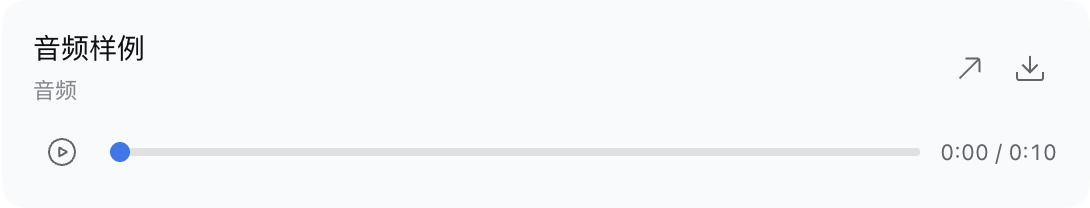
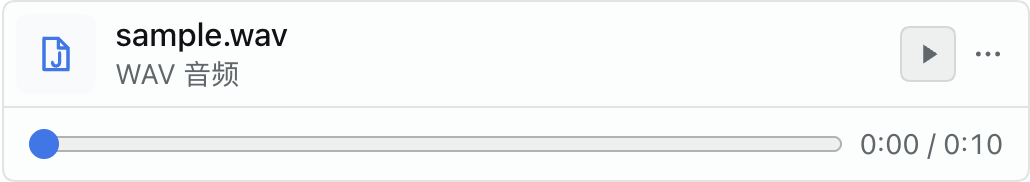
feat: 对齐 Codex 音视频控件的布局与交互
保留表格和 Mermaid 原有实现；音频改为紧凑文件卡片，视频使用自定义进度、音量、倍速和全屏操作条。补充菜单关闭动画并更新 README 截图与控件尺寸记录。

验证：4 项单元测试、19 项真实 DSH 宿主检查及两种插件加载顺序的冷启动通过。

diff --git a/src/styles.css b/src/styles.css
@@ -19,12 +19,10 @@
 .dcr-preview-table th { position: sticky; top: 0; z-index: 1; background: var(--dsw-alias-bg-layer-2); }
 .dcr-preview-table button { cursor: pointer; }
 
-/* Graphs and media use the same quiet surface as DSH's code cards. */
-.dcr-mermaid,
-.dcr-media { border: 0; border-radius: var(--dsw-radius-lg, 12px); background: var(--dsw-alias-markdown-code-block); color: var(--dsw-alias-label-primary); font-family: var(--dsw-font-family); }
+/* Graphs use the same quiet surface as DSH's code cards. */
+.dcr-mermaid { border: 0; border-radius: var(--dsw-radius-lg, 12px); background: var(--dsw-alias-markdown-code-block); color: var(--dsw-alias-label-primary); font-family: var(--dsw-font-family); }
 .dcr-mermaid { margin: 8px 0; overflow: hidden; }
-.dcr-mermaid > header,
-.dcr-media > header { display: flex; align-items: center; justify-content: space-between; gap: 12px; }
+.dcr-mermaid > header { display: flex; align-items: center; justify-content: space-between; gap: 12px; }
 .dcr-mermaid > header { padding: 8px 12px 4px 18px; color: var(--dsw-alias-label-tertiary); font: 11px/18px var(--dsw-font-family); }
 .dcr-render-work { position: absolute; left: -100000px; top: 0; visibility: hidden; pointer-events: none; }
 .dcr-diagram { display: flex; align-items: center; justify-content: center; padding: 16px 20px 20px; overflow: auto; min-height: 100px; }
@@ -38,18 +36,6 @@
 .dcr-zoom { min-width: 40px; text-align: center; color: var(--dsw-alias-label-secondary); font: 11px/18px var(--dsw-font-family); }
 .dcr-status { margin: 0; padding: 8px 0; color: var(--dsw-alias-label-secondary); font: 12px/18px var(--dsw-font-family); }
 .dcr-mermaid .dcr-status { padding: 12px 20px; }
-.dcr-media { width: 100%; max-width: 512px; padding: 14px 16px; margin: 12px 0; }
-.dcr-media-name { min-width: 0; }
-.dcr-media-name > span { display: block; overflow-wrap: anywhere; font: 14px/20px var(--dsw-font-family); }
-.dcr-media-name > small { display: block; margin-top: 2px; color: var(--dsw-alias-label-tertiary); font: 11px/18px var(--dsw-font-family); }
-.dcr-audio-controls { display: flex; align-items: center; gap: 10px; margin-top: 8px; }
-.dcr-time { color: var(--dsw-alias-label-secondary); font: 11px/18px var(--dsw-font-family); font-variant-numeric: tabular-nums; white-space: nowrap; }
-.dcr-audio-controls input { appearance: none; flex: 1; min-width: 30px; height: 4px; margin: 0; border: 0; border-radius: var(--dsw-radius-pill, 999px); background: linear-gradient(to right, var(--dsw-alias-state-business-primary) var(--dcr-progress), var(--dsw-alias-border-l2) var(--dcr-progress)); cursor: pointer; }
-.dcr-audio-controls input::-webkit-slider-thumb { appearance: none; width: 10px; height: 10px; border: 0; border-radius: 50%; background: var(--dsw-alias-state-business-primary); }
-.dcr-audio-controls input:focus-visible { outline: 1px solid var(--dsw-alias-state-business-primary); outline-offset: 4px; }
-.dcr-audio-controls input:disabled { opacity: .4; cursor: default; }
-.dcr-media video { display: block; width: 100%; max-height: 420px; margin-top: 10px; border-radius: var(--dsw-radius-sm, 8px); background: #17181b; }
-
 /* Match General Settings' native DeveloperToolsRow geometry. */
 .dcr-setting-row { display: flex; justify-content: space-between; align-items: center; gap: 24px; padding: 16px 0; border-bottom: .5px solid var(--dsw-alias-border-l2); }
 .dcr-setting-title { font-size: 14px; line-height: 20px; font-weight: 400; }
@@ -57,3 +43,69 @@
 @keyframes dcr-close { to { opacity: 0; } }
 @media (hover: none) { .dcr-table-tools { opacity: 1; pointer-events: auto; } }
 @media (prefers-reduced-motion: reduce) { .dcr-closing { animation: none !important; } .dcr-table-tools { transition: none; } }
+
+/* Widget controls have their own geometry; General Settings keeps DSH's primitives. */
+.dcr-media, .dcr-tooltip, .dcr-menu {
+  --dcr-surface: var(--dsw-alias-bg-layer-2);
+  --dcr-text: var(--dsw-alias-label-primary);
+  --dcr-secondary: var(--dsw-alias-label-secondary);
+  --dcr-tertiary: var(--dsw-alias-label-tertiary);
+  --dcr-border: var(--dsw-alias-border-l2);
+  --dcr-hover: color-mix(in srgb, var(--dcr-text) 6%, transparent);
+  font-family: var(--dsw-font-family);
+}
+.dcr-control { appearance: none; display: inline-flex; align-items: center; justify-content: center; flex: none; padding: 0; margin: 0; border: 0; background: transparent; color: var(--dcr-tertiary); cursor: pointer; user-select: none; -webkit-app-region: no-drag; }
+.dcr-control svg { display: block; flex: none; }
+.dcr-control:hover:not(:disabled), .dcr-control[aria-expanded=true], .dcr-control[aria-pressed=true] { background: var(--dcr-hover); color: var(--dcr-text); }
+.dcr-control:focus-visible { outline: 2px solid var(--dsw-alias-state-business-primary); outline-offset: 2px; }
+.dcr-control:disabled { opacity: .4; cursor: default; }
+.dcr-control-toolbar, .dcr-control-audio { width: 28px; height: 28px; border-radius: 6px; color: var(--dcr-secondary); }
+.dcr-control-audio { background: var(--dcr-hover); border: 1px solid var(--dcr-border); }
+.dcr-control-audio svg { width: 16px; height: 16px; }
+.dcr-controls { display: flex; align-items: center; gap: 4px; flex: none; }
+.dcr-tooltip { position: fixed; z-index: 10002; width: max-content; max-width: min(320px, calc(100vw - 16px)); padding: 5px 12px; border: 1px solid #ffffff14; border-radius: 16px; background: #181a1b; color: #fff; font-size: 13px; font-weight: 400; line-height: 18px; letter-spacing: .01em; box-shadow: 0 8px 18px #0f172a33; transform: translate(-50%, -100%); pointer-events: none; animation: dcr-tooltip-enter 100ms ease-out both; }
+.dcr-tooltip-below { transform: translate(-50%, 0); }
+.dcr-menu { position: fixed; z-index: 10001; width: 224px; max-height: min(420px, calc(100vh - 16px)); overflow: auto; padding: 4px; border: .5px solid var(--dcr-border); border-radius: 16px; background: var(--dcr-surface); color: var(--dcr-text); box-shadow: 0 8px 24px #0000001f; animation: dcr-tooltip-enter 120ms ease-out both; }
+.dcr-menu > button { display: flex; align-items: center; gap: 8px; width: 100%; min-height: 32px; padding: 6px 8px; border: 0; border-radius: 8px; color: inherit; background: none; font: 13px/20px var(--dsw-font-family); text-align: start; cursor: pointer; }
+.dcr-menu > button > span { flex: 1; }
+.dcr-menu > button:is(:hover,:focus-visible) { background: var(--dcr-hover); outline: none; }
+.dcr-menu > button:disabled { opacity: .4; cursor: default; }
+.dcr-menu hr { border: 0; border-top: .5px solid var(--dcr-border); margin: 4px; }
+.dcr-menu-label { padding: 6px 8px 4px; color: var(--dcr-tertiary); font-size: 12px; line-height: 18px; }
+
+/* Audio uses a compact attachment row. Video has a dedicated custom control strip. */
+.dcr-media { width: 100%; padding: 0; font-family: var(--dsw-font-family); margin: 12px 0; color: var(--dcr-text); }
+.dcr-audio { max-width: 512px; border: .5px solid var(--dcr-border); border-radius: 8px; background: color-mix(in srgb, var(--dcr-surface) 50%, var(--dsw-alias-markdown-code-block)); }
+.dcr-audio > header { display: flex; align-items: center; gap: 10px; padding: 6px; }
+.dcr-audio-file-icon { display: grid; place-items: center; width: 40px; height: 40px; flex: none; border-radius: 8px; background: var(--dsw-alias-markdown-code-block); color: var(--dsw-alias-state-business-primary); }
+.dcr-media-name { min-width: 0; flex: 1; }
+.dcr-media-name > span { display: block; overflow: hidden; white-space: nowrap; text-overflow: ellipsis; font: 500 16px/20px var(--dsw-font-family); }
+.dcr-media-name > small { display: block; color: var(--dcr-secondary); font: 14px/20px var(--dsw-font-family); }
+.dcr-audio-controls { display: flex; align-items: center; gap: 8px; margin: 0; padding: 8px 12px; border-top: 1px solid var(--dcr-border); }
+.dcr-time { color: var(--dcr-secondary); font: 12px/18px var(--dsw-font-family); font-variant-numeric: tabular-nums; white-space: nowrap; }
+.dcr-timeline { appearance: none; flex: 1; min-width: 0; width: 100%; height: 24px; margin: 0; padding: 0; border: 0; background: none; cursor: pointer; touch-action: none; }
+:is(.dcr-video,.dcr-menu) .dcr-timeline::-webkit-slider-runnable-track { height: 2px; border-radius: 999px; background: linear-gradient(to right, var(--dcr-text) var(--dcr-progress), var(--dcr-border) var(--dcr-progress)); }
+:is(.dcr-video,.dcr-menu) .dcr-timeline::-webkit-slider-thumb { appearance: none; width: 16px; height: 16px; margin-top: -7px; border: 1px solid var(--dcr-border); border-radius: 50%; background: var(--dcr-surface); box-shadow: 0 2px 4px #0000001a; cursor: pointer; }
+:is(.dcr-video,.dcr-menu) .dcr-timeline:active::-webkit-slider-thumb { cursor: grabbing; }
+.dcr-timeline:focus-visible { outline: 2px solid var(--dsw-alias-state-business-primary); outline-offset: 2px; border-radius: 999px; }
+.dcr-timeline:disabled { opacity: .4; cursor: default; }
+.dcr-audio .dcr-timeline { appearance: auto; height: 20px; accent-color: var(--dsw-alias-state-business-primary); }
+.dcr-video { max-width: 704px; border-radius: 6px; overflow: hidden; background: var(--dcr-surface); box-shadow: 0 4px 6px #0000001a; }
+.dcr-video video { display: block; width: 100%; margin: 0; border-radius: 0; max-height: min(calc(48vh - 40px), 472px); background: #000; object-fit: contain; cursor: pointer; }
+.dcr-video video:focus-visible { outline: 2px solid var(--dsw-alias-state-business-primary); outline-offset: -2px; }
+.dcr-video-controls { display: flex; align-items: center; gap: 8px; min-height: 40px; padding: 4px 8px; border-top: 1px solid var(--dcr-border); }
+.dcr-video-actions { display: flex; align-items: center; gap: 6px; }
+.dcr-volume-control { display: flex; align-items: center; gap: 8px; padding: 8px; }
+.dcr-video:fullscreen { width: 100%; max-width: none; height: 100%; margin: 0; border-radius: 0; display: flex; flex-direction: column; }
+.dcr-video:fullscreen video { flex: 1; min-height: 0; max-height: none; }
+
+
+@keyframes dcr-tooltip-enter { from { opacity: 0; } to { opacity: 1; } }
+@media (max-width: 560px) { .dcr-video-controls { flex-wrap: wrap; } .dcr-video-controls > .dcr-timeline { flex-basis: 100%; order: -1; } .dcr-video-actions { margin-inline-start: auto; } }
+@media (prefers-reduced-motion: reduce) { .dcr-control, .dcr-tooltip, .dcr-menu { animation: none !important; transition: none !important; } }
+
+.dcr-audio .dcr-time { font-size: 14px; line-height: 20px; }
+.dcr-audio .dcr-timeline:active { cursor: grabbing; }
+
+.dcr-menu.dcr-menu-closing { animation: dcr-menu-leave 100ms ease-in forwards; pointer-events: none; }
+@keyframes dcr-menu-leave { to { opacity: 0; } }

diff --git a/src/components.jsx b/src/components.jsx
@@ -1,5 +1,6 @@
 import React,{useState,useEffect,useLayoutEffect,useRef} from 'react';
 import {Button,Tooltip,Modal as DshModal,IconCopyOutlineRegular,IconFullscreenOutlineRegular,IconCloseOutlineRegular,IconCheckOutlineRegular,IconDownloadOutlineRegular,IconCodeOutlineRegular,IconPlayOutlineRegular,IconPauseOutlineRegular,IconPlusOutlineRegular,IconRightUpOutlineRegular} from '@deepseek-ai/dsh-client-ui-primitives';
+import {Action as MediaAction,Icon as MediaIcon,Menu} from './controls.jsx';
 import {tableClipboard} from './core.js';
 
 export function Icon({name}) {
@@ -102,8 +103,8 @@ export function MermaidCard({code}) {
 
 const time=value=>`${Math.floor(value/60)}:${String(Math.floor(value%60)).padStart(2,'0')}`;
 export function MediaCard({item}) {
-  const player=useRef(),[src,setSrc]=useState(null),[playing,setPlaying]=useState(false),[position,setPosition]=useState(0),[duration,setDuration]=useState(0),[error,setError]=useState('');
-  const name=item.label||decodeURIComponent(item.url.split(/[?#]/)[0].split('/').pop())||'媒体文件';
+  const player=useRef(),frame=useRef(),scrub=useRef(),[src,setSrc]=useState(null),[playing,setPlaying]=useState(false),[position,setPosition]=useState(0),[duration,setDuration]=useState(0),[error,setError]=useState(''),[volume,setVolume]=useState(1),[muted,setMuted]=useState(false),[rate,setRate]=useState(1),[fullscreen,setFullscreen]=useState(false);
+  const filename=decodeURIComponent(item.url.split(/[?#]/)[0].split('/').pop()),name=filename||item.label||'媒体文件',kind=item.kind==='audio'?'音频':'视频';
   useEffect(()=>{
     const controller=new AbortController(),element=player.current;let objectURL;
     setError('');setDuration(0);setPosition(0);setPlaying(false);
@@ -118,12 +119,22 @@ export function MediaCard({item}) {
     }catch{if(!controller.signal.aborted)setError('无法播放此文件，可通过原始文件链接打开。');}})();
     return()=>{controller.abort();element.pause();element.removeAttribute('src');element.load();if(objectURL)URL.revokeObjectURL(objectURL);};
   },[item.src]);
+  useEffect(()=>{const update=()=>setFullscreen(document.fullscreenElement===frame.current);document.addEventListener('fullscreenchange',update);return()=>document.removeEventListener('fullscreenchange',update);},[]);
   const download=async()=>{try{const response=await fetch(item.src);if(!response.ok)throw Error();saveBlob(await response.blob(),decodeURIComponent(item.url.split(/[?#]/)[0].split('/').pop())||`${item.kind}.bin`);}catch{setError('下载失败，可通过原始文件链接打开。');}};
-  const common={src:src??undefined,preload:'metadata',onError:()=>setError('无法播放此文件，可通过原始文件链接打开。'),onLoadedMetadata:e=>{const value=e.currentTarget.duration;setDuration(Number.isFinite(value)?value:0);},onTimeUpdate:e=>setPosition(e.currentTarget.currentTime),onPlay:()=>setPlaying(true),onPause:()=>setPlaying(false),onEnded:()=>setPlaying(false)};
-  return <section className={`dcr-media dcr-${item.kind}`} aria-label={`${item.kind==='audio'?'音频':'视频'}播放器`}>
-    <header><div className="dcr-media-name"><span>{name}</span><small>{item.kind==='audio'?'音频':'视频'}</small></div><div className="dcr-actions"><Action label="打开原始文件" icon="external" onClick={()=>window.open(item.src,'_blank','noopener,noreferrer')}/><Action label="下载媒体" icon="download" onClick={download}/></div></header>
-    {item.kind==='video'?<video ref={player} controls playsInline {...common}/>:<><audio ref={player} {...common}/><div className="dcr-audio-controls"><Action label={playing?'暂停音频':'播放音频'} icon={playing?'pause':'play'} disabled={!src} onClick={async()=>{try{if(playing)player.current.pause();else await player.current.play();}catch{setError('无法播放此文件，可通过原始文件链接打开。');}}}/><input type="range" min="0" max={duration||1} step=".01" value={Math.min(position,duration||1)} disabled={!duration} style={{'--dcr-progress':`${duration?position/duration*100:0}%`}} aria-label="音频进度" aria-valuetext={`${time(position)} / ${time(duration)}`} onChange={e=>{const value=Number(e.target.value);player.current.currentTime=value;setPosition(value);}}/><span className="dcr-time">{time(position)} / {time(duration)}</span></div></>}
-    {!src&&!error&&<p className="dcr-status" role="status">正在加载{item.kind==='audio'?'音频':'视频'}…</p>}
+  const toggle=async()=>{try{if(player.current.paused)await player.current.play();else player.current.pause();}catch{setError('无法播放此文件，可通过原始文件链接打开。');}};
+  const finishScrub=()=>{const resume=scrub.current;scrub.current=null;if(resume)player.current.play().catch(()=>setError('无法恢复播放。'));};
+  const timeline=<input className="dcr-timeline" type="range" min="0" max={duration||1} step=".1" value={Math.min(position,duration||1)} disabled={!duration} style={{'--dcr-progress':`${duration?position/duration*100:0}%`}} aria-label={`${kind}进度`} aria-valuetext={`${time(position)} / ${time(duration)}`} onPointerDown={()=>{scrub.current=!player.current.paused;if(item.kind==='video')player.current.pause();}} onPointerUp={finishScrub} onPointerCancel={finishScrub} onLostPointerCapture={finishScrub} onChange={e=>{const value=Number(e.target.value);player.current.currentTime=value;setPosition(value);}}/>;
+  const play=<MediaAction label={playing?`暂停${kind}`:`播放${kind}`} icon={playing?'pause':'play'} variant={item.kind==='audio'?'audio':'toolbar'} disabled={!src} onClick={toggle}/>;
+  const fileItems=[{label:'下载媒体',icon:'download',onSelect:download},{label:'复制文件地址',icon:'copy',onSelect:()=>navigator.clipboard.writeText(item.url)},{label:'打开原始文件',icon:'external',onSelect:()=>window.open(item.src,'_blank','noopener,noreferrer')}];
+  const common={src:src??undefined,preload:'metadata',onError:()=>setError('无法播放此文件，可通过原始文件链接打开。'),onLoadedMetadata:e=>{const value=e.currentTarget.duration;setDuration(Number.isFinite(value)?value:0);},onTimeUpdate:e=>setPosition(e.currentTarget.currentTime),onPlay:()=>setPlaying(true),onPause:()=>setPlaying(false),onEnded:()=>setPlaying(false),onVolumeChange:e=>{setVolume(e.currentTarget.volume);setMuted(e.currentTarget.muted);},onRateChange:e=>setRate(e.currentTarget.playbackRate)};
+  return <section ref={frame} className={`dcr-media dcr-${item.kind}`} aria-label={`${kind}播放器`}>
+    {item.kind==='video'?<><video ref={player} playsInline tabIndex="0" aria-label={item.label||name} onClick={toggle} onKeyDown={event=>{if([' ','Enter'].includes(event.key)){event.preventDefault();if(!event.repeat)toggle();}}} {...common}/><div className="dcr-video-controls">
+      {play}{timeline}<span className="dcr-time">{time(position)} / {time(duration)}</span><div className="dcr-video-actions">
+        <Menu label="视频音量" icon={muted||!volume?'mute':'volume'} variant="toolbar"><div className="dcr-volume-control"><MediaAction variant="toolbar" label={muted?'取消静音':'静音视频'} icon={muted||!volume?'mute':'volume'} pressed={muted} onClick={()=>{player.current.muted=!player.current.muted;}}/><input className="dcr-timeline" type="range" min="0" max="1" step=".01" value={muted?0:volume} aria-label="视频音量大小" style={{'--dcr-progress':`${muted?0:volume*100}%`}} onChange={event=>{player.current.volume=Number(event.target.value);player.current.muted=false;}}/></div></Menu>
+        <Menu label="视频选项" variant="toolbar" items={[...fileItems,{separator:true},{heading:'播放速度'},...[.25,.5,.75,1,1.25,1.5,1.75,2].map(value=>({label:`${value}×`,checked:rate===value,onSelect:()=>{player.current.playbackRate=value;}})),...document.pictureInPictureEnabled?[{separator:true},{label:'画中画',icon:'pip',onSelect:async()=>{try{if(document.pictureInPictureElement===player.current)await document.exitPictureInPicture();else await player.current.requestPictureInPicture();}catch{setError('无法打开画中画。');}}}]:[]]}/>
+        <MediaAction variant="toolbar" label={fullscreen?'退出全屏':'全屏播放'} icon="expand" onClick={async()=>{try{if(fullscreen)await document.exitFullscreen();else await frame.current.requestFullscreen();}catch{setError('无法进入全屏播放。');}}}/>
+      </div></div></>:<><audio ref={player} {...common}/><header><div className="dcr-audio-file-icon"><MediaIcon name="audio" size={24}/></div><div className="dcr-media-name"><span title={name}>{name}</span><small>{!src?'正在加载音频…':`${filename.split('.').pop().toUpperCase()} 音频`}</small></div><div className="dcr-actions">{play}<Menu label="音频选项" variant="toolbar" items={fileItems}/></div></header><div className="dcr-audio-controls">{timeline}<span className="dcr-time">{time(position)} / {time(duration)}</span></div></>}
+    {item.kind==='video'&&!src&&!error&&<p className="dcr-status" role="status">正在加载视频…</p>}
     {error&&<p className="dcr-status" role="status">{error}</p>}
   </section>;
 }

diff --git a/src/controls.jsx b/src/controls.jsx
@@ -1,0 +1,63 @@
+import React,{useEffect,useLayoutEffect,useRef,useState,useId} from 'react';
+import {createPortal} from 'react-dom';
+
+export function Icon({name,size=20}) {
+  const paths={
+    copy:<><rect x="3.5" y="6.5" width="10" height="11" rx="2.5"/><path d="M7 3h7a3 3 0 0 1 3 3v7"/></>,
+    expand:<path d="M12 3.5h4.5V8M16.5 3.5l-5 5M8 16.5H3.5V12M3.5 16.5l5-5"/>,
+    close:<path d="m5 5 10 10M15 5 5 15"/>,
+    check:<path d="m4 10 4 4 8-9"/>,
+    download:<path d="M10 3v9m-4-4 4 4 4-4M4 13v3a1 1 0 0 0 1 1h10a1 1 0 0 0 1-1v-3"/>,
+    code:<path d="m6.5 5-5 5 5 5m7-10 5 5-5 5M11.5 3l-3 14"/>,
+    play:<path d="m7 4 9 6-9 6Z" fill="currentColor" stroke="none"/>,
+    pause:<path d="M6 4h3v12H6zM12 4h3v12h-3z" fill="currentColor" stroke="none"/>,
+    plus:<path d="M4 10h12M10 4v12"/>,
+    minus:<path d="M4 10h12"/>,
+    external:<path d="M10 3h7v7m0-7-9 9M8 4H4a1 1 0 0 0-1 1v11a1 1 0 0 0 1 1h11a1 1 0 0 0 1-1v-4"/>,
+    more:<g fill="currentColor" stroke="none"><circle cx="4" cy="10" r="1.5"/><circle cx="10" cy="10" r="1.5"/><circle cx="16" cy="10" r="1.5"/></g>,
+    audio:<><path d="M5 3.5h6l4 4v9H5zM11 3.5v4h4"/><path d="M11.5 9.5v4m-3 0a1.5 1.5 0 1 0 3 0"/></>,
+    volume:<><path d="M3 8h3l4-4v12l-4-4H3zM13 7a4 4 0 0 1 0 6M15 4a8 8 0 0 1 0 12"/></>,
+    mute:<><path d="M3 8h3l4-4v12l-4-4H3zM14 8l4 4m0-4-4 4"/></>,
+    pip:<><rect x="2" y="4" width="16" height="12" rx="2"/><rect x="10" y="10" width="6" height="4" rx=".5" fill="currentColor" stroke="none"/></>,
+  };
+  return <svg width={size} height={size} viewBox="0 0 20 20" fill="none" stroke="currentColor" strokeWidth="1.4" strokeLinecap="round" strokeLinejoin="round" aria-hidden="true">{paths[name]}</svg>;
+}
+
+export function Action({label,icon,onClick,disabled=false,pressed,variant='toolbar',buttonRef,children,...props}) {
+  const local=useRef(),timer=useRef(),id=useId(),[tip,setTip]=useState(null),ref=buttonRef??local;
+  const hide=()=>{clearTimeout(timer.current);setTip(null);};
+  const show=()=>{clearTimeout(timer.current);if(disabled)return;timer.current=setTimeout(()=>{
+    const box=ref.current.getBoundingClientRect();setTip({left:box.left+box.width/2,top:box.top,bottom:box.bottom});
+  },200);};
+  useEffect(()=>()=>clearTimeout(timer.current),[]);
+  useEffect(()=>{if(!tip)return;window.addEventListener('scroll',hide,true);window.addEventListener('resize',hide);return()=>{window.removeEventListener('scroll',hide,true);window.removeEventListener('resize',hide);};},[tip]);
+  const edge=tip&&tip.top<46,portal=ref.current?.closest('dialog')??document.fullscreenElement??document.body;
+  return <><button type="button" ref={ref} className={`dcr-control dcr-control-${variant}`} aria-label={label} aria-describedby={tip?id:undefined} aria-pressed={pressed} disabled={disabled} onPointerEnter={show} onPointerLeave={hide} onFocus={event=>{if(event.currentTarget.matches(':focus-visible'))show();}} onBlur={hide} onPointerDown={hide} onClick={event=>{hide();onClick?.(event);}} {...props}>{children??<Icon name={icon} size={variant==='toolbar'?16:20}/>}</button>
+    {tip&&createPortal(<div data-dcr-ui="" id={id} role="tooltip" className={`dcr-tooltip${edge?' dcr-tooltip-below':''}`} style={{left:Math.max(100,Math.min(innerWidth-100,tip.left)),top:edge?tip.bottom+2:tip.top-2}}>{label}</div>,portal)}</>;
+}
+
+export function Menu({label,items,variant='block',icon='more',children}) {
+  const trigger=useRef(),panel=useRef(),timer=useRef(),[position,setPosition]=useState(null),[closing,setClosing]=useState(false),id=useId();
+  const close=(restore=true)=>{if(closing)return;setClosing(true);if(restore)trigger.current?.focus({preventScroll:true});timer.current=setTimeout(()=>{setPosition(null);setClosing(false);},matchMedia('(prefers-reduced-motion: reduce)').matches?0:100);};
+  useEffect(()=>()=>clearTimeout(timer.current),[]);
+  const locate=()=>{const r=trigger.current.getBoundingClientRect();setPosition({left:Math.max(8,Math.min(innerWidth-232,r.right-224)),top:r.bottom+6,bottom:innerHeight-r.top+6,above:r.bottom+300>innerHeight});};
+  useLayoutEffect(()=>{if(!position)return;panel.current.querySelector('button,input')?.focus({preventScroll:true});},[!!position]);
+  useEffect(()=>{
+    if(!position)return;
+    const outside=e=>{if(!trigger.current.contains(e.target)&&!panel.current.contains(e.target))close(false);};
+    window.addEventListener('pointerdown',outside,true);window.addEventListener('resize',locate);window.addEventListener('scroll',locate,true);
+    return()=>{window.removeEventListener('pointerdown',outside,true);window.removeEventListener('resize',locate);window.removeEventListener('scroll',locate,true);};
+  },[!!position,closing]);
+  const keyboard=event=>{
+    if(event.key==='Escape'){event.stopPropagation();event.preventDefault();close();return;}
+    if(event.key==='Tab'){close(false);return;}
+    if(event.target.tagName==='INPUT')return;
+    const buttons=Array.from(panel.current.querySelectorAll('button:not(:disabled)')),index=buttons.indexOf(document.activeElement);
+    const next={ArrowDown:(index+1)%buttons.length,ArrowUp:(index-1+buttons.length)%buttons.length,Home:0,End:buttons.length-1}[event.key];
+    if(next!==undefined){event.preventDefault();buttons[next]?.focus();}
+  };
+  return <><Action label={label} icon={icon} variant={variant} buttonRef={trigger} aria-haspopup="menu" aria-expanded={!!position&&!closing} aria-controls={position?id:undefined} onClick={()=>position?close():locate()}/>
+    {position&&createPortal(<div data-dcr-ui="" id={id} ref={panel} role="menu" aria-label={label} inert={closing} className={`dcr-menu${closing?' dcr-menu-closing':''}`} style={{left:position.left,...position.above?{bottom:position.bottom}:{top:position.top}}} onKeyDown={keyboard}>
+      {children}{items?.map((item,index)=>item.separator?<hr key={index}/>:item.heading?<div className="dcr-menu-label" key={index}>{item.heading}</div>:<button key={item.label} type="button" role={item.checked===undefined?'menuitem':'menuitemradio'} aria-checked={item.checked} disabled={item.disabled} onClick={()=>{item.onSelect();close();}}>{item.icon&&<Icon name={item.icon} size={16}/>}<span>{item.label}</span>{item.checked&&<Icon name="check" size={16}/>}</button>)}
+    </div>,trigger.current?.closest('dialog')??document.fullscreenElement??document.body)}</>;
+}

diff --git a/README.md b/README.md
@@ -1,6 +1,6 @@
 # DSH Codex Renderer
 
-为 DeepSeek Harness 增加表格、Mermaid 图表与音视频播放器，结合 Codex 的操作方式和 DSH 原生组件样式。
+为 DeepSeek Harness 增加表格、Mermaid 图表与音视频播放器，表格与图表沿用 DSH 原生样式，音视频按 Codex 桌面端的控件布局实现。
 
 ## 功能
 
@@ -9,7 +9,7 @@
 | 表格 | 悬停工具栏、复制表格、展开预览、保留横向滚动 |
 | Mermaid | 图表渲染、源码切换、源码复制、SVG 下载、预览缩放 |
 | 音频 | 播放与暂停、时间轴定位、进度显示、文件下载 |
-| 视频 | 内嵌播放、进度控制、浏览器全屏、文件下载 |
+| 视频 | 自定义播放条、定位、音量、倍速、全屏、画中画 |
 
 ### 表格
 
@@ -29,7 +29,7 @@
 
 ### 音视频
 
-自动识别回复中的音视频文件，显示内嵌播放器。
+自动识别回复中的音视频文件。音频使用文件卡片、格式说明和独立时间轴；视频使用自定义操作条，支持音量、倍速、全屏与画中画。
 
 ![音频播放器](assets/audio.png)
 
@@ -50,7 +50,7 @@ npm pack
 安装到桌面端：
 
 ```sh
-dsh plugin --profile desktop add "$PWD/deepseekharness-plugin-dsh-codex-renderer-0.1.4.tgz"
+dsh plugin --profile desktop add "$PWD/deepseekharness-plugin-dsh-codex-renderer-0.2.1.tgz"
 ```
 
 然后在 DSH 的「插件」页面确认「回复渲染增强」已启用。
@@ -95,6 +95,10 @@ npm run demo:media
 把输出的提示词复制给 DSH，让助手原样回复其中的 Markdown。播放器出现后，可检查播放、暂停，并把进度拖到第 5 秒；视频应显示持续变化的画面。
 
 播放器增强作用于助手回复。链接放在代码块中时会显示为代码，无法生成播放器。
+
+## 音视频控件对齐
+
+音频的附件行和视频操作条按 Codex 的尺寸分别实现。表格与图表保持原有布局，设置仍使用 DSH 原生组件。尺寸依据见 [音视频控件对齐记录](docs/codex-media-parity.md)。
 
 ## 开发与验证
 

diff --git a/docs/codex-media-parity.md b/docs/codex-media-parity.md
@@ -1,0 +1,24 @@
+# Codex 音视频控件对齐记录
+
+以本机 Codex 桌面端的音视频组件布局和控件样式为依据，在 DSH 0.2.0-rc.2 宿主中验证。所有数值是 CSS 像素，截图使用 2 倍显示比例。
+
+表格、表格预览和 Mermaid 图表保持 0.1.4 的实现。
+
+| 控件 | Codex 的布局与数值 | 插件实现 |
+| --- | --- | --- |
+| 音频卡片 | 最大宽度 512px、8px 圆角 | 文件附件卡片，主题颜色跟随 DSH |
+| 文件行 | 40px 图标、6px 内边距、10px 内容间距 | 文件名与格式分两行，右侧播放和选项 |
+| 音频时间轴 | 20px 原生 range、8px 上下和 12px 左右内边距 | 独立进度行，显示当前时间与总时长 |
+| 视频框 | 6px 圆角、独立下方操作条 | 内嵌视频加自定义控制区域 |
+| 视频操作条 | 40px 高度、8px 左右内边距、28px 按钮 | 播放、进度、音量、选项和全屏 |
+| 视频时间轴 | 2px 轨道、16px 滑块、圆角与阴影 | 指针悬停、拖动定位、键盘操作 |
+| 提示框 | 16px 圆角、左右 12px、上下 5px、200ms 延迟 | 独立提示层，点击和滚动时收起 |
+| 播放选项 | 文件操作、0.25–2 倍速、画中画 | 菜单跟随触发按钮，全屏时进入全屏容器 |
+
+图标由本插件绘制，颜色使用 DSH 的主题变量。视频使用自定义控件；音频时间轴与 Codex 一样使用浏览器的 range 控件。
+
+## 验证
+
+`npm run check` 在隔离的真实 DSH 宿主中验证音视频播放、定位、倍速、音量、静音、全屏内菜单、HTTP 媒体与本地媒体，以及表格、图表、插件启停和批注兼容性。
+
+`assets/audio.png` 和 `assets/video.png` 由真实宿主生成，README 与截图随功能一起更新。
